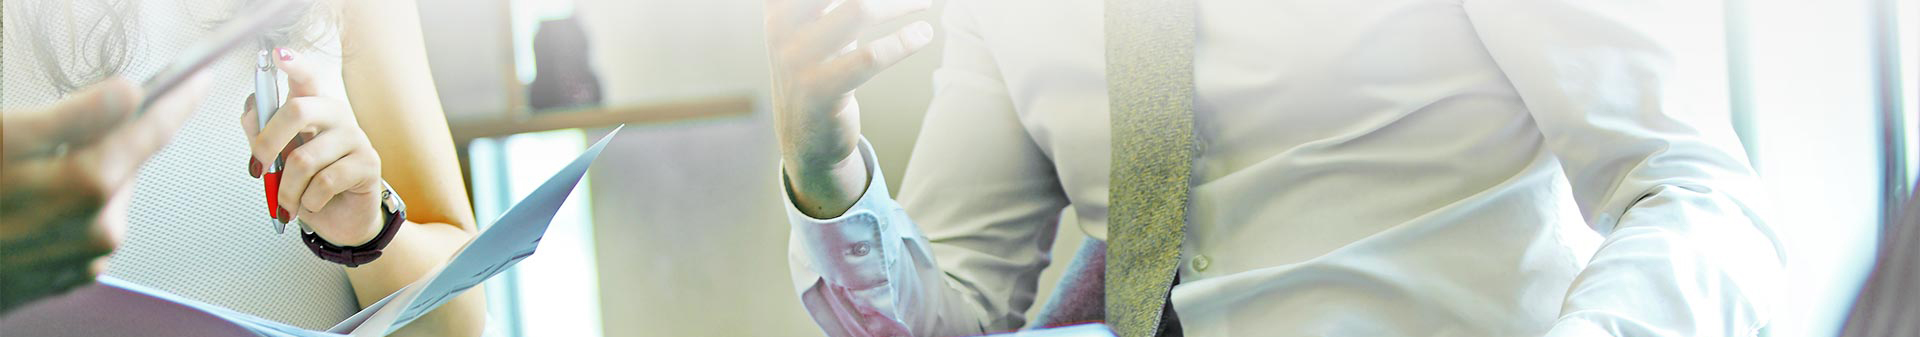
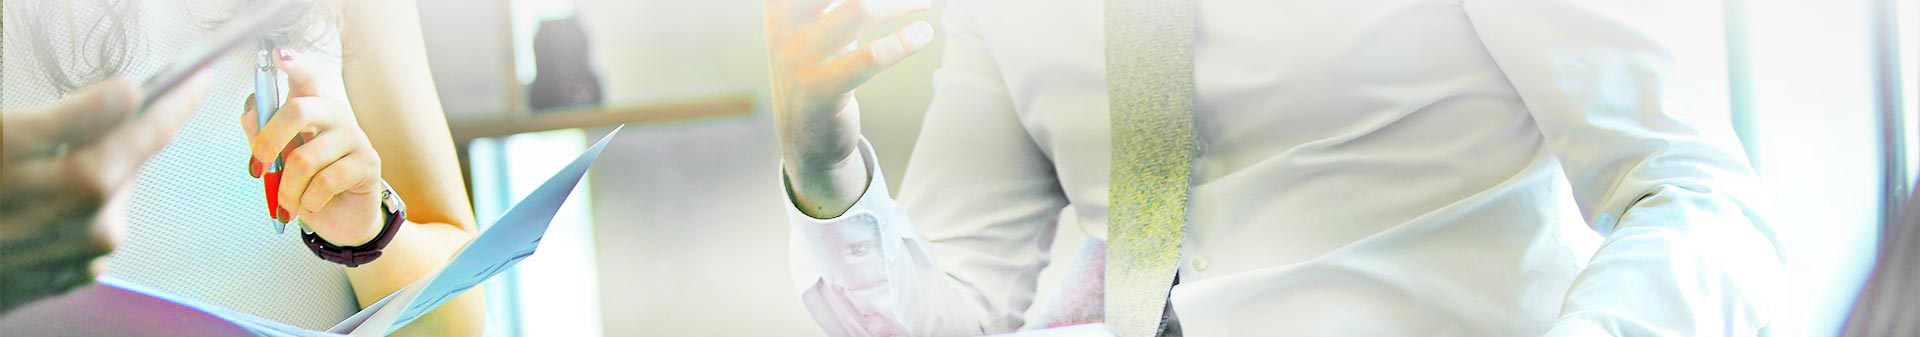
added new layout (header with image) on bloggrid-page, edited images

diff --git a/blog-grid.html b/blog-grid.html
@@ -106,15 +106,26 @@
 <!-- End Header v1 -->  
 <div class="grid">
   <main>
-
+      <div class="imageHeader">
+          <img src="blog/images/HEADERblog.jpg">
+      </div>
+      <div class="container">
+          <div class="grid-intro">
+            <h1 class="text-center">Alle Blogeinträge</h1>
+            <p class="intro text-center text-muted">{{page.description}}</p>
+          </div>
+          <div>
+            <!-- Breadcrubs by KE start -->
+            <ol class="breadcrumb">
+                <li class="breadcrumb-item"><a class="a-breadcrumb" href="index.html">Home</a></li>
+                <li class="breadcrumb-item active">Blogposts</li>
+              </ol>	
+            <!-- Breadcrubs by KE end -->	
+          </div>	
+        </div>
     <!-- Blog Background Overlay Blocks -->
     <div class="container g-pb-20 detail-container">
-		<!-- Breadcrubs by KE start -->
-			<ol class="breadcrumb">
-			  <li class="breadcrumb-item"><a class="a-breadcrumb" href="index.html">Home</a></li>
-			  <li class="breadcrumb-item active">Blogposts</li>
-			</ol>	
-		<!-- Breadcrubs by KE end -->			
+		
       <div class="row justify-content-between">
         <div class="col-lg-9 g-mb-80">
           <div class="g-pr-20--lg">
@@ -428,7 +439,7 @@
     <!-- Footer -->
     <div id="contacts-section" class="g-bg-black-opacity-0_9 g-color-white-opacity-0_8 g-py-60">
       <div class="container pt-0">
-        <div class="row">
+        <div class="row g-bg-black-opacity-0_9">
           <!-- Footer Content -->
           <div class="col-lg-3 col-md-6 g-mb-40 g-mb-0--lg">
             <div class="u-heading-v2-3--bottom g-brd-white-opacity-0_8 g-mb-20">

diff --git a/css/styles.main_ke.css b/css/styles.main_ke.css
@@ -10,6 +10,7 @@ CSS für Template Start */
 
 /* ----------------------------------------------
 Extraseiten START */
+
 .breadcrumb {
 	background-color: transparent;
 	border: none;
@@ -1773,6 +1774,31 @@ input[type="radio"]:checked + * .job .g-overlay-primary-0_9--checked::after,
 /*--------------------------------------------------------------------------------------------------------------------------------------
   Bloggrid-Page START
 ------------------------------------*/
+
+.grid h1 {
+	color: #1b1b1b;
+	font-size: 30px;
+	text-transform: uppercase;
+	font-weight: 700;
+	margin-bottom: 2.14286rem !important;
+
+}
+
+.grid .imageHeader {
+  top: 0px;
+  width: 100%;
+  position: absolute;
+  z-index: -1;
+}
+
+.grid .grid-intro {
+	text-align: center;
+	max-width: 770px;
+	margin: auto;
+  margin-bottom: 4rem;
+  padding-top: 5rem;
+}
+
 .side:hover {
   background-color: #f7f7f7;
   font-weight: 600;
@@ -1793,7 +1819,9 @@ input[type="radio"]:checked + * .job .g-overlay-primary-0_9--checked::after,
 }
 
 .grid .container {
-  padding-top: 11rem;
+  margin-top: 9rem;
+  background-color: rgba(255, 255, 255, 0.7);
+  background: linear-gradient(transparent, 10%, white);
 }
 
 .grid .fa {
@@ -3363,7 +3391,8 @@ Project-Page Start*/
 	text-align: center;
 	max-width: 770px;
 	margin: auto;
-  margin-bottom: 7rem;
+  margin-bottom: 4rem;
+  padding-top: 5rem;
 }
 
 .project h1 {

diff --git a/_layouts/project.html b/_layouts/project.html
@@ -9,16 +9,16 @@ layout: default
 		<img src="images/HEADERprojekt_long.jpg">
 	</div>
 	<div class="container">
-		<ol class="breadcrumb">
-			<li class="breadcrumb-item"><a class="a-breadcrumb" href="index.html">Projekte</a></li>
-			<li class="breadcrumb-item active">{{page.title}}</li>
-		</ol>
 		<div class="project-intro">
 			<h1 class="text-center">{{page.title}}</h1>
 			<p class="intro text-center text-muted">{{page.description}}</p>
 		</div>
 	
 		<div>
+			<ol class="breadcrumb">
+				<li class="breadcrumb-item"><a class="a-breadcrumb" href="index.html">Projekte</a></li>
+				<li class="breadcrumb-item active">{{page.title}}</li>
+			</ol>
 			<p class="project-text text-justify">
 				{{page.content}}
 			</p>
